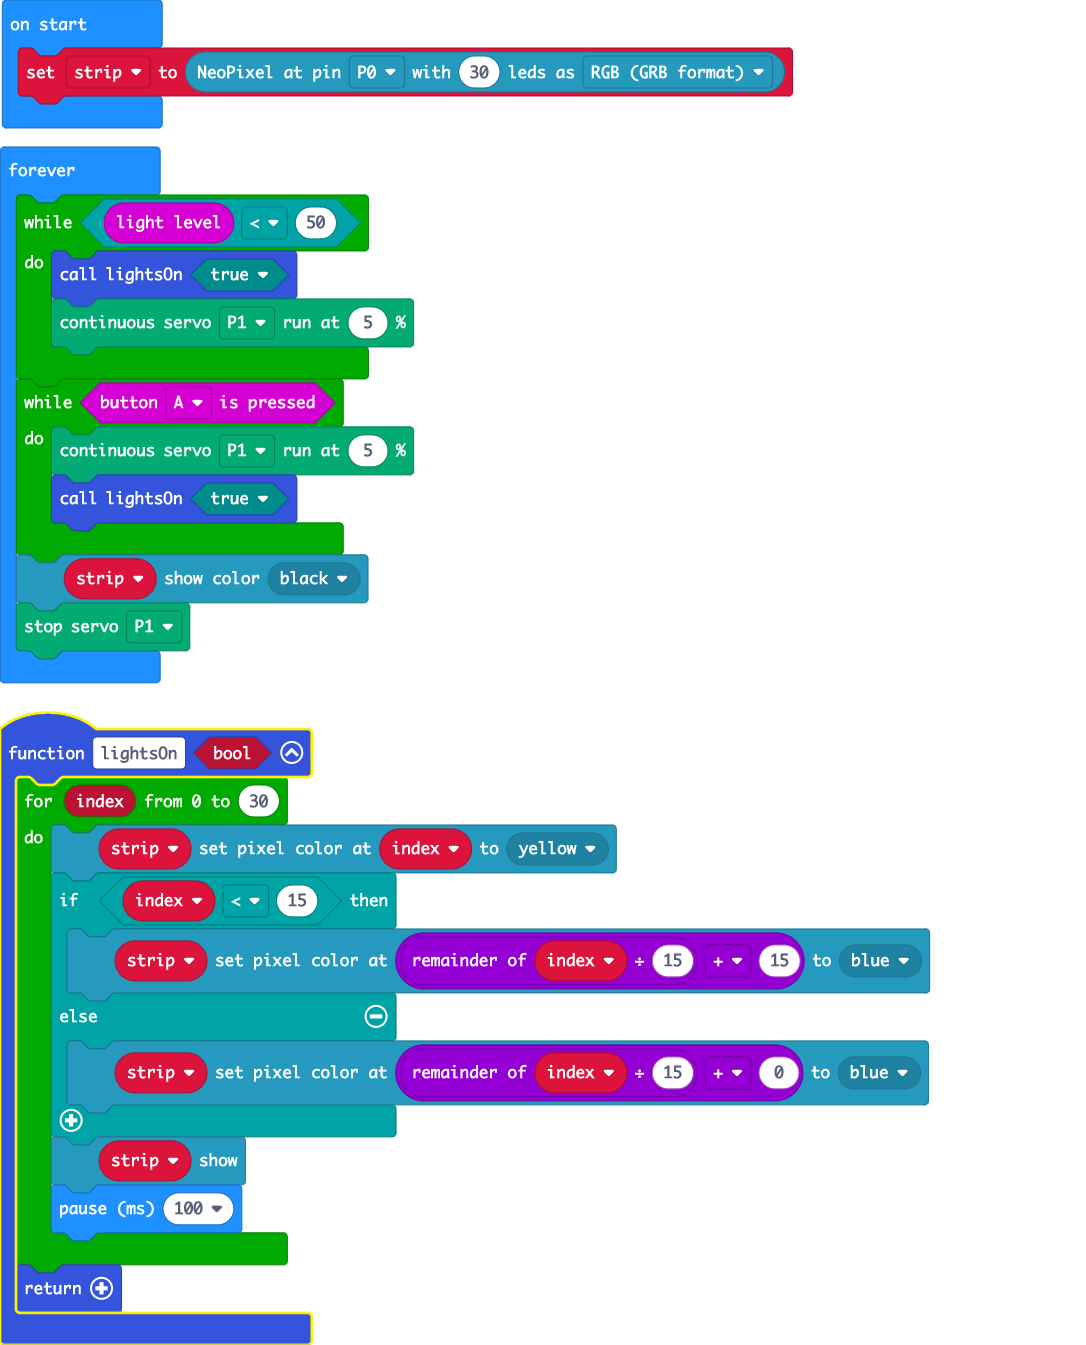
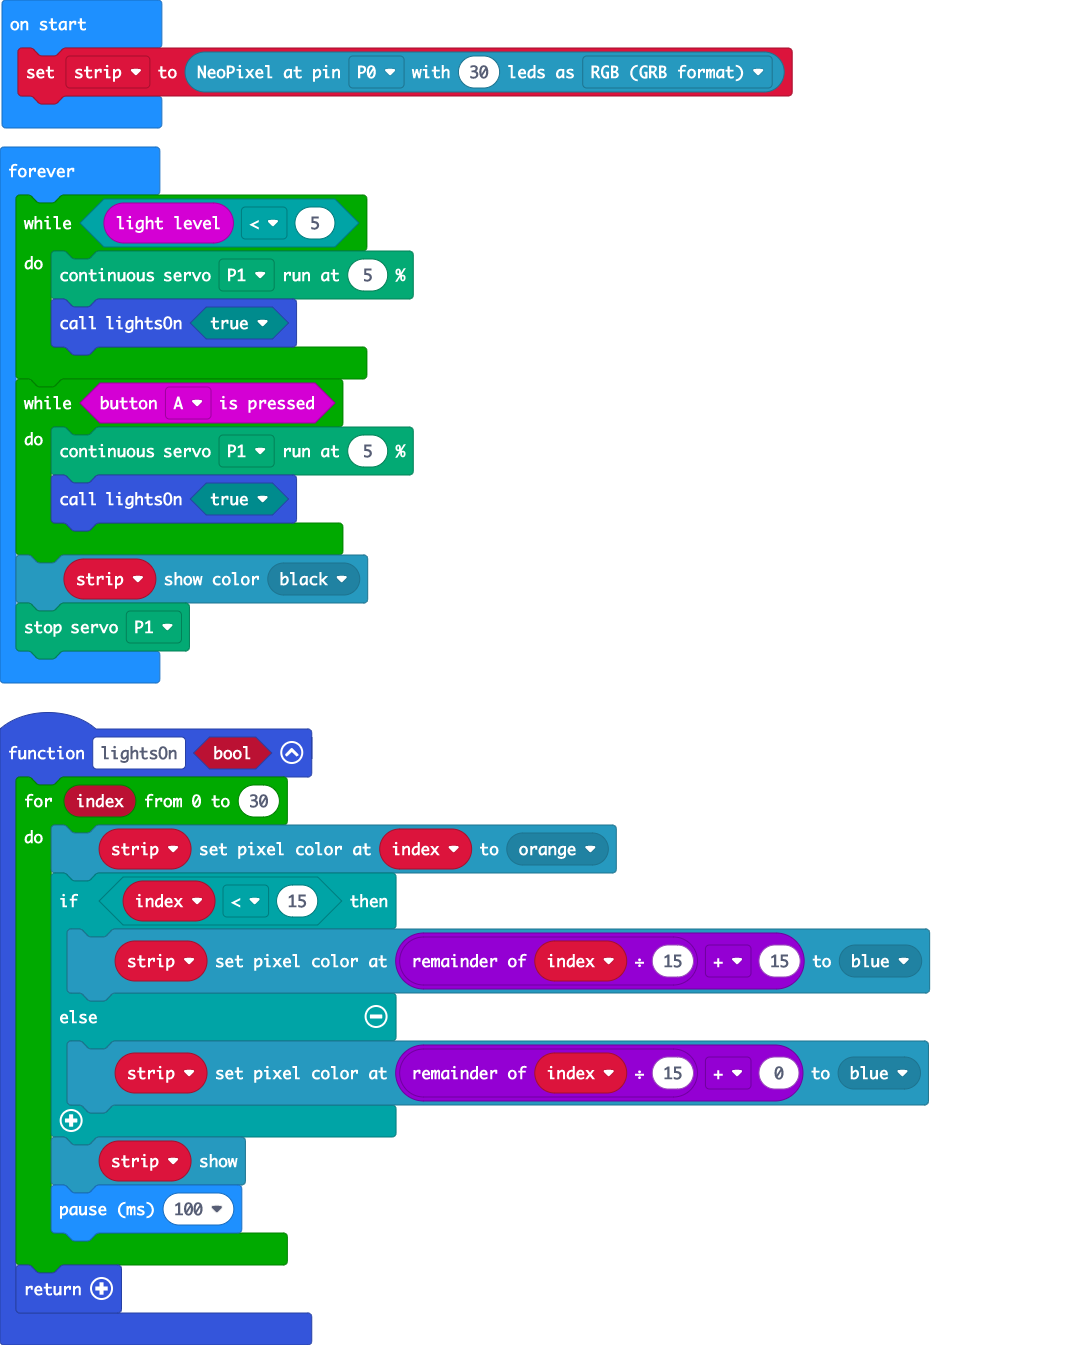
Update main.blocks, main.ts

diff --git a/main.ts b/main.ts
@@ -1,6 +1,6 @@
 function lightsOn (bool: boolean) {
     for (let index = 0; index <= 30; index++) {
-        strip.setPixelColor(index, neopixel.colors(NeoPixelColors.Yellow))
+        strip.setPixelColor(index, neopixel.colors(NeoPixelColors.Orange))
         if (index < 15) {
             strip.setPixelColor(index % 15 + 15, neopixel.colors(NeoPixelColors.Blue))
         } else {
@@ -14,9 +14,9 @@ function lightsOn (bool: boolean) {
 let strip: neopixel.Strip = null
 strip = neopixel.create(DigitalPin.P0, 30, NeoPixelMode.RGB)
 basic.forever(function () {
-    while (input.lightLevel() < 50) {
-        lightsOn(true)
+    while (input.lightLevel() < 5) {
         servos.P1.run(5)
+        lightsOn(true)
     }
     while (input.buttonIsPressed(Button.A)) {
         servos.P1.run(5)
